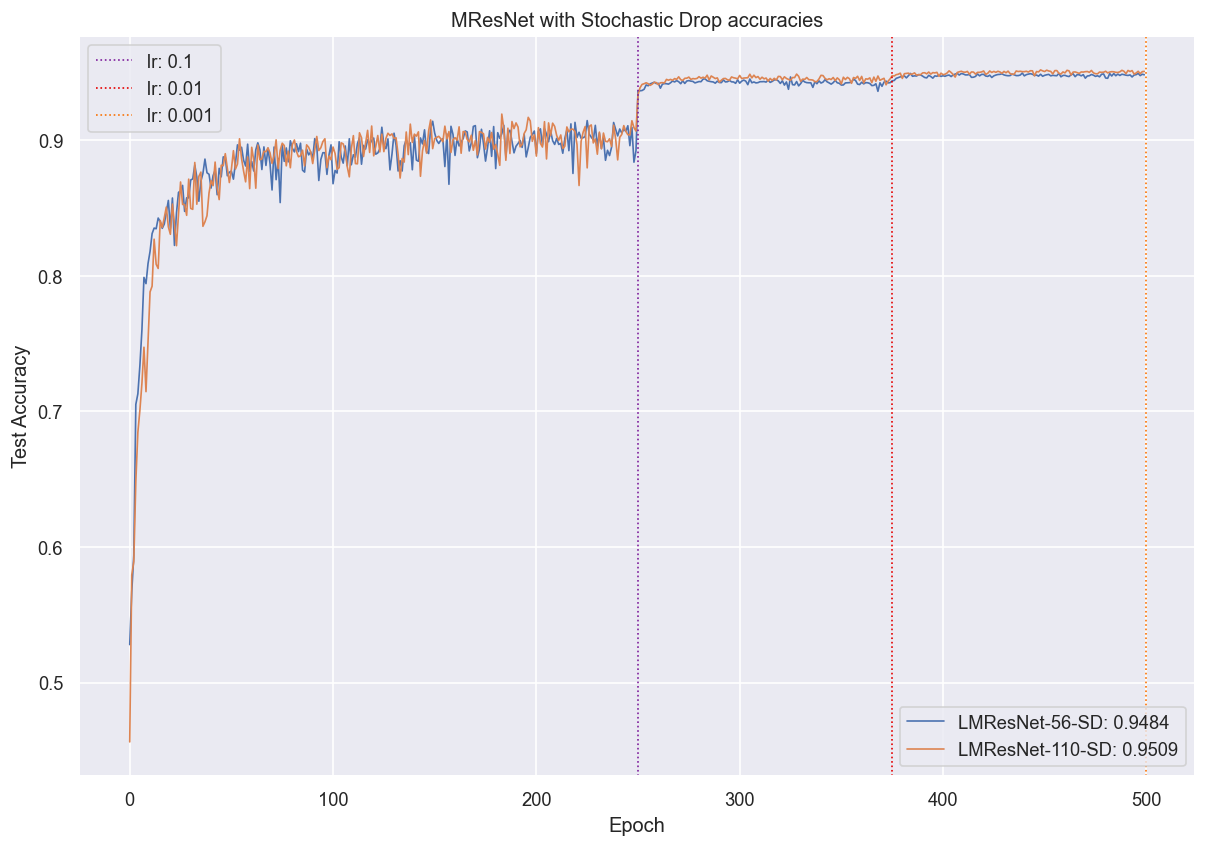
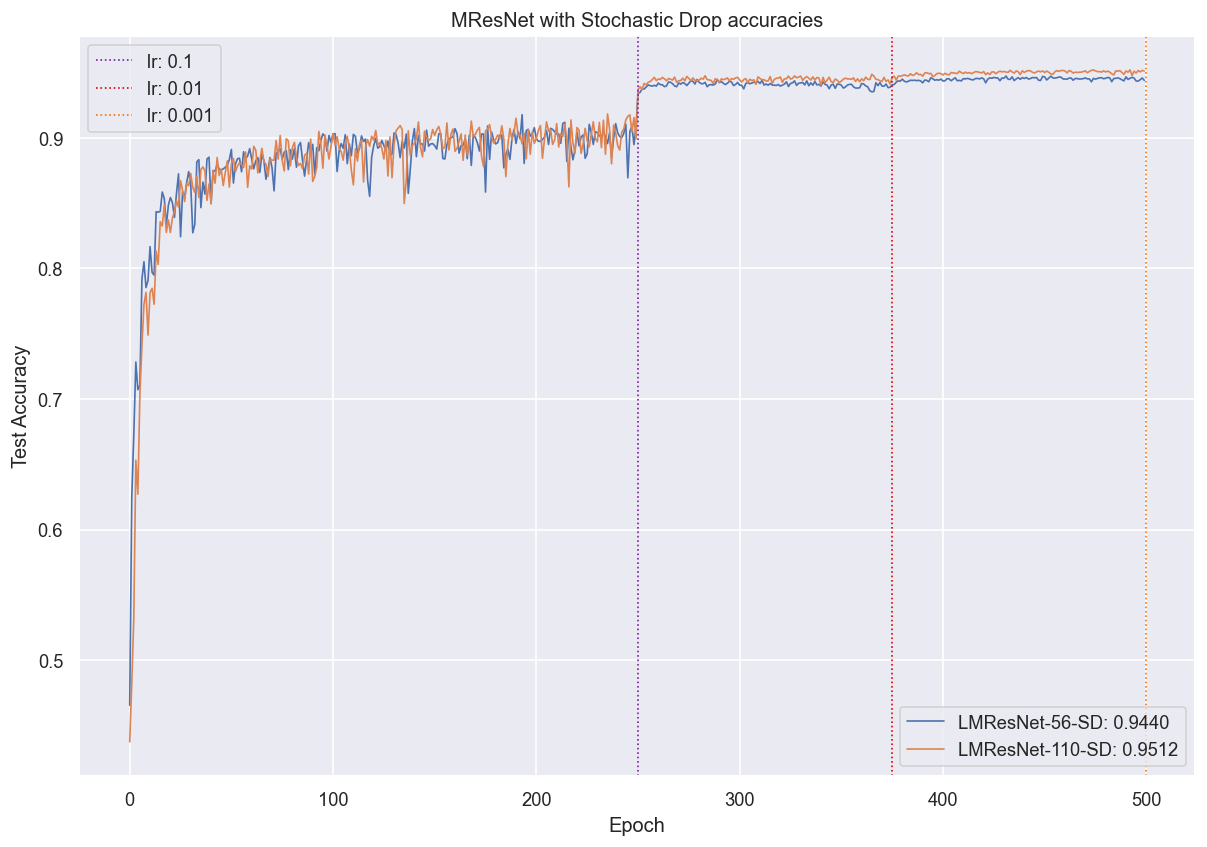
update informe

diff --git a/informe/informe.tex b/informe/informe.tex
@@ -50,14 +50,14 @@ height=21cm,top=1.7cm,headsep=1cm, headheight=1.6cm, footskip=1.2cm, bottom=2.4c
 \newpage
 
 \section{Introducción}
-En el presente trabajo se apunta a explicar el paper \textit{Beyond Finite Layer Neural Networks: Bridging Deep Architectures and Numerical Differential Equations}\cite{lu18d} de \textit{Lu et. al}.  Se introduce la motivación de los autores, una breve reseña de la literatura para explicar el estado del arte en el momento de publicación, se explican los puntos principales del paper y mostramos los resultados obtenidos al intentar replicar los resultados obtenidos en el paper.
+En el presente trabajo se apunta a explicar el paper \textit{Beyond Finite Layer Neural Networks: Bridging Deep Architectures and Numerical Differential Equations}\cite{lu18d} de \textit{Lu et. al}.  Se introduce la motivación de los autores, una breve reseña de la literatura para explicar el estado del arte en el momento de publicación, se explican los puntos principales del paper y se muestran los resultados obtenidos al intentar replicar los resultados obtenidos en el paper.
 
 \subsection{Entrenamiento de redes neuronales muy profundas}
 Las redes neuronales convolucionales empezaron a dominar el campo de vision por computadora luego de la introducción de AlexNet \cite{DBLP:journals/corr/Krizhevsky14} en 2012. Una gran ventaja de esta familia de modelos es que aprenden mapas de \textit{features} junto con un clasificador en un proceso punta a punta. De este modo, no es necesario que se definan a priori las \textit{features} relevantes de la imagen o del dominio bajo estudio.
 
-Desde entonces, se ha acelerado el estudio de estas familias de modelos, con aplicaciones varias en imágenes, lenguaje natural, sonido, procesamiento de señales, sistemas de recomendaciones, entre otras. Distintos papers elaboran sobre la importancia de la profundidad de dichas redes para lograr mejores resultados. Es decir, la performance, bajo alguna medida de performance relevante al problema, aumenta al agregar capas de parámetros libres o bloques con más neuronas. Sin embargo, el entrenamiento de modelos cada vez más grandes ha expuesto varios problemas relacionados a la convergencia del entrenamiento.
+Desde entonces, se ha acelerado el estudio de estas familias de modelos, con aplicaciones varias en imágenes, lenguaje natural, sonido, procesamiento de señales, sistemas de recomendaciones, entre otras áreas. Distintos papers elaboran sobre la importancia de la profundidad de dichas redes para lograr mejores resultados. Es decir, la performance, bajo alguna medida de performance relevante al problema, aumenta al agregar capas de parámetros libres o bloques con más neuronas. Sin embargo, el entrenamiento de modelos cada vez más grandes ha expuesto varios problemas relacionados a la convergencia del entrenamiento.
 
-Dos problemas comunes a la hora de entrenar redes neuronales muy profundas es la explosión de gradientes y el desvanecimiento de gradientes. El primero se refiere a que los valores de los gradientes a medida que se propagan por la red toman valores exponencialmente más grandes, hasta tomar el valor \texttt{NaN}. De este valor, no se pueden recuperar, dado que las operaciones de matmul no se encuentran definidas. El segundo se refiere al caso contrario, donde los gradientes se vuelven progresivamente más pequeños y tienden a cero, frenando por completo el entrenamiento. En ambos casos, la convergencia de la red se ve afectada. Ambos problemas se hacen más aparentes en redes neuronales muy profundas. Estos problemas han sido, a grandes rasgos, resueltos mediante el uso de distintos métodos de regularización entre capas así como mediante inicialización normalizada de los parámetros de la red.
+Dos problemas comunes a la hora de entrenar redes neuronales muy profundas son la explosión de gradientes y el desvanecimiento de gradientes. El primero se refiere a que los valores de los gradientes a medida que se propagan por la red toman valores exponencialmente más grandes, hasta tomar el valor \texttt{NaN}. De este valor, no se pueden recuperar, dado que las operaciones de matmul no se encuentran definidas. El segundo se refiere al caso contrario, donde los gradientes se vuelven progresivamente más pequeños y tienden a cero, frenando por completo el entrenamiento. En ambos casos, la convergencia de la red se ve afectada. Ambos problemas se hacen más aparentes en redes neuronales muy profundas. Estos problemas han sido, a grandes rasgos, resueltos mediante el uso de distintos métodos de regularización entre capas así como mediante inicialización normalizada de los parámetros de la red.
 
 Sin embargo, aún convergiendo, una consecuencia de aumentar la profundidad de las redes, es que se evidencia una degradación en el error de aprendizaje: la precisión de la red se satura y luego empeora al intentar agregar más capas. Sería natural pensar que se trata de un caso de sobreajuste u \textit{overfitting}, pero no es el caso.
 
@@ -72,7 +72,7 @@ Dentro de la literatura que trata de resolver este problema, \cite{DBLP:journals
 \label{ex_cnn}
 \end{figure}
 
-La segunda CNN en \ref{ex_cnn} posee una capa mas de conv-maxpooling que la primera. Asumamos que las demás capas están copiadas de la primer CNN de la figura, con sus mismos pesos. La capa extra podría aprender un mapeo de identidad y por tanto tener \textit{al menos} la misma precisión que la primer CNN de la figura. Esta solución por construcción de una red efectivamente más profunda indicaría que una red más profunda debería tener un error de entrenamiento más chico que una red más chica, pero esto se contradice con distintos resultados experimentales.
+La segunda CNN en \ref{ex_cnn} posee una capa más de conv-maxpooling que la primera. Asumamos que las demás capas están copiadas de la primer CNN de la figura, con sus mismos pesos. La capa extra podría aprender un mapeo de identidad y por tanto tener \textit{al menos} la misma precisión que la primer CNN de la figura. Esta solución por construcción de una red efectivamente más profunda indicaría que una red más profunda debería tener un error de entrenamiento más chico que una red más chica, pero esto se contradice con distintos resultados experimentales.
 
 En lugar de esperar que algún conjunto de capas aprendan un mapeo deseado, se les hace aprender un mapeo residual: deseando aprender el mapeo $\mathscr{H}(x)$, dejan que ese conjunto no lineal de capas aprenda $\mathscr{F}(x) = \mathscr{H}(x) - x$, de modo de obtener la función original como $\mathscr{F}(x) + x$. Los autores conjeturan que es más fácil optimizar el mapeo residual que el mapeo original. Volviendo a nuestro argumento de construcción, si el mapeo identidad fuera óptimo, sería más facil llevar el residual a cero que aprender $\mathscr{H}(x)$ como un mapeo de identidad.
 
@@ -172,9 +172,9 @@ Observemos, brevemente, que cada bloque residual de ResNet puede ser descrito po
 	y_{l+1} &= g(y_l)
 \end{align}
 
-Donde $z_l$ es la entrada del l-ésima capa, $z_{l+1}$ es la salida de la l-ésima capa, $y_l$ es una variable auxiliar de la l-ésima capa, $h, g$ son mapeos que pueden ser no-lineales. El entrenamiento se determina experimentalemente \cite{he2016identity} que es más facil si sendos $g$ y $h$ son el mapa identidad.
+Donde $z_l$ es la entrada del l-ésima capa, $z_{l+1}$ es la salida de la l-ésima capa, $y_l$ es una variable auxiliar de la l-ésima capa, $h, g$ son mapeos que pueden ser no-lineales. El entrenamiento se determina experimentalemente \cite{he2016identity} que es más fácil si tanto $g$ como $h$ son el mapa identidad.
 
-Consideremos $G$ como la inversa de $g$, entonces el sistema dinamico anterior puede ser descrito como
+Consideremos $G$ como la inversa de $g$, entonces el sistema dinámico anterior puede ser descrito como
 
 \begin{align}\label{ODE23}
 	z_{l+1} = G(h(z_l) + \mathscr{F}(z_l, W_l))
@@ -201,7 +201,7 @@ Cuya discretización más sencilla toma la forma
 Donde $\Delta t_l$ es el tamaño del l-ésimo paso. Notemos que esto es el primer paso del método de Euler.
 
 \subsection{PolyNet}
-En \cite{szegedy2014going}, se propone una arquitectura llamada "Inception" cuyos bloques se muestran en \ref{inception_block}.
+En \cite{szegedy2014going}, se propone una arquitectura llamada ``Inception'' cuyos bloques se muestran en~\ref{inception_block}.
 
 \begin{figure}[H]
 \centering
@@ -219,7 +219,7 @@ Zhang et al proponen en \cite{zhang2017polynet} utilizar bloques de Inception co
 \label{polynet_block}
 \end{figure}
 
-Es necesario aclarar que todos los bloques etiquetados "Inception F" comparten sus parámetros. Configuraciones donde distintos bloques no comparten parámetros son también estudiadas. La motivación principal es estudiar composiciones polinomiales de operadores para explorar la diversidad estructural que permite combinar aditivamente distintos bloques.
+Es necesario aclarar que todos los bloques etiquetados ``Inception F'' comparten sus parámetros. Configuraciones donde distintos bloques no comparten parámetros son también estudiadas. La motivación principal es estudiar composiciones polinomiales de operadores para explorar la diversidad estructural que permite combinar aditivamente distintos bloques.
 
 Notar que esto resulta en un término de segundo orden respecto de ResNet.
 
@@ -234,13 +234,13 @@ Cuyo lado izquierdo puede reescribirse como
 
 De modo tal que su computo sea mas eficiente.
 
-Esta formulación puede verse como un paso del método implicito de Euler
+Esta formulación puede verse como un paso del método implícito de Euler
 
 \begin{align}
 	u_{n+1} = (I -\Delta tf)^{-1}u_n
 \end{align}
 
-Para la ecuación diferencial $u_t = f(u)$. El método implicito permite pasos mas grandes, de modo que son necesarios menos bloques encadenados para lograr clasificación de estado del arte.
+Para la ecuación diferencial $u_t = f(u)$. El método implícito permite pasos mas grandes, de modo que son necesarios menos bloques encadenados para lograr clasificación de estado del arte.
 
 \subsection{FractalNet}
 FractalNet \cite{larsson2017fractalnet} muestra que el aprendizaje explicito de residuales no es un imperativo para entrenar redes muy profundas.
@@ -260,7 +260,7 @@ Los fractales sucesivos se definen como
 	f_{C+1}(z) = \left[ (f_C \circ f_C)(z) \right] \oplus \left[ \text{conv}(z) \right]
 \end{align}
 
-Donde $\circ$ denota composicion de funciones y $\oplus$ un operador de unión. Este operador de unión puede ser, por ejemplo, concatenación o suma elemento a elemento. Los autores utilizan el promedio elemento a elemento.
+Donde $\circ$ denota composición de funciones y $\oplus$ un operador de unión. Este operador de unión puede ser, por ejemplo, concatenación o suma elemento a elemento. Los autores utilizan el promedio elemento a elemento.
 
 Entonces, \ref{fractal_net_eq} puede ser reescrito como:
 
@@ -279,7 +279,7 @@ Lo cual puede ser considerado como un caso de un esquema de Runge-Kutta de segun
 \subsection{RevNet}
 Recordemos que un sistema dinamico es reversible si su función de transición de estados es biyectiva. Es decir, para cada estado existe un unico estado anterior desde el cual podría haberse llegado.
 
-En \cite{gomez2017reversible} se propone RevNet, una arquitectura compuesta de una serie de bloques reversibles. Los parámetros de cada capa se particionan en dos grupos $x_1, x_2$. Cada bloque reversible toma dos entradas $(x_1, x_2)$ y produce dos salidas $(y_1, y_2)$ acorde a las reglas en \ref{eq_revnet} y funciones residuales $\mathscr{F}$ y $\mathscr{G}$ analogas a ResNet.
+En~\cite{gomez2017reversible} se propone RevNet, una arquitectura compuesta de una serie de bloques reversibles. Los parámetros de cada capa se particionan en dos grupos $x_1, x_2$. Cada bloque reversible toma dos entradas $(x_1, x_2)$ y produce dos salidas $(y_1, y_2)$ acorde a las reglas en \ref{eq_revnet} y funciones residuales $\mathscr{F}$ y $\mathscr{G}$ análogas a ResNet.
 
 \begin{align}\label{eq_revnet}
 	y_1 &= x_1 + \mathscr{F}(x_2) \\
@@ -295,7 +295,7 @@ Por tanto, las activaciones de una capa pueden ser reconstruidas desde las activ
 
 De este modo, se ejecuta backpropagation sin guardar las activaciones en memoria.\footnote{La VRAM en GPUs suele ser un limitante en el entrenamiento. Si la arquitectura tiene muchos parámetros, es común utilizar un batch size más chico, lo cual es subóptimo para SGD con mini batches.} De este modo, su costo en memoria es independiente de su profundidad, a excepción de algunas pocas capas no reversibles.
 
-Reformulemos \ref{eq_revnet} como el siguiente sistema dinamico discreto:
+Reformulemos \ref{eq_revnet} como el siguiente sistema dinámico discreto:
 
 \begin{align}
 	X_{n+1} &= X_n + \mathscr{F}(Y_n) \\
@@ -333,7 +333,7 @@ Un método multi pasos de orden $m > 1$ es aquel cuya ecuación en diferencias p
 
 Con $i=m-1, m, \cdots, N-1$ y donde $a_0, a_1, \cdots, a_{m-1}$ y $b_0, b_1, \cdots, b_m$ son constantes y los valores iniciales $y_0 = \alpha, y_1 = \alpha_1, y_2 = \alpha_2, \cdots, y_{m-1} = \alpha_{m-1}$ son especificados.
 
-Si $b_m = 0$, el método es \textbf{explícito o abierto} ya que el valor de $w_{i+1}$ se da explícitamente en términos de los valores previamente calculados. Cuando $b_m \neq 0$, el método es \textbf{implícito o cerrado}, ya que el valor de $w_{i+1}$ se encuentra en ambos miembros de la ecuación y se especifica sólo implicitamente.
+Si $b_m = 0$, el método es \textbf{explícito o abierto} ya que el valor de $w_{i+1}$ se da explícitamente en términos de los valores previamente calculados. Cuando $b_m \neq 0$, el método es \textbf{implícito o cerrado}, ya que el valor de $w_{i+1}$ se encuentra en ambos miembros de la ecuación y se especifica sólo implícitamente.
 
 \subsubsection{Formulación de LM-ResNet}
 La arquitectura LM puede ser formulada como
@@ -342,7 +342,7 @@ La arquitectura LM puede ser formulada como
 	u_{n+1} = (1-k_n) u_n + k_n u_{n-1} + f_n(u_n)
 \end{align}
 
-Donde $k_n \in \mathbb{R}^n$ es un paramétro entrenable de cada capa que actúa como factor de escalado del residuo de la capa actual y la anterior. La figura \ref{lmblock} muestra el bloque de LM-ResNet \textit{acorde al código original}. Notar que \ref{lmblockorig}, el bloque según el paper, presenta diferencias. En primer instancia, el código original multiplica el residuo de la capa previa por $1-k_s$, pero acorde a la ecuación \ref{LM_arch}, y el diagrama \ref{lmblockorig}, se multiplica por $k_s$. El diagrama original es poco claro también, pareciendo indicar que se multiplica $u_n$ tanto por $k_s$ como por $1-k_s$.
+Donde $k_n \in \mathbb{R}^n$ es un parámetro entrenable de cada capa que actúa como factor de escalado del residuo de la capa actual y la anterior. La figura~\ref{lmblock} muestra el bloque de LM-ResNet \textit{acorde al código original}. Notar que~\ref{lmblockorig}, el bloque según el paper, presenta diferencias. En primer instancia, el código original multiplica el residuo de la capa previa por $1-k_s$, pero acorde a la ecuación~\ref{LM_arch}, y el diagrama \ref{lmblockorig}, se multiplica por $k_s$. El diagrama original es poco claro también, pareciendo indicar que se multiplica $u_n$ tanto por $k_s$ como por $1-k_s$.
 
 \begin{figure}[H]
 \centering
@@ -402,6 +402,7 @@ Todos los experimentos fueron llevados a cabo con CUDA 12.1 en una GPU Nvidia 20
 
 En \ref{tabla1} se resumen los principales resultados de los experimentos realizados. Se indica la precisión obtenida (y su error como contraparte) junto con aquella reportada en el paper. Para que los números reportados sean más correctos, se podría haber tomado el promedio y desviación estándar de varias ejecuciones, pero por motivos de tiempo disponible, no fue posible. Se indica la diferencia entre los errores obtenidos y los reportados en el paper.
 
+Vale aclarar que se usan ``MResNet'' y ``LMResNet'' intercambiablemente, el primero con base en el nombre dado en el código. Por otro lado, vemos la nomenclatura \texttt{LMResNet-X}, donde X indica la cantidad de capas convolucionales que tiene esa versión de la red.
 
 % Please add the following required packages to your document preamble:
 % \usepackage[table,xcdraw]{xcolor}
@@ -412,12 +413,12 @@ En \ref{tabla1} se resumen los principales resultados de los experimentos realiz
 \cline{2-8}
  & \multicolumn{2}{c|}{\textbf{Replicación}} & \multicolumn{2}{c|}{\textbf{Paper}} &  &  &  \\ \cline{2-8}
  & \multicolumn{1}{c}{\textbf{Acc.}} & \multicolumn{1}{c|}{\textbf{Error (\%)}} & \multicolumn{1}{c}{\textbf{Acc.}} & \multicolumn{1}{c|}{\textbf{Error (\%)}} & \multicolumn{1}{c|}{\textbf{\begin{tabular}[c]{@{}c@{}}Diferencia\\ de error\end{tabular}}} & \multicolumn{1}{l|}{\textbf{\begin{tabular}[c]{@{}l@{}}Parametros\\ entrenables\end{tabular}}} & \textbf{\begin{tabular}[c]{@{}l@{}}Mult-Add\\ totales (G)\end{tabular}} \\ \hline
-\multicolumn{1}{|l|}{\textbf{MResNet-20}} & 0.9200 & 8.00 & 0.9167 & 8.33 & \multicolumn{1}{l|}{\cellcolor[HTML]{FFFFC7}+0.33} & \multicolumn{1}{l|}{273475} & 5.22 \\
-\multicolumn{1}{|l|}{\textbf{MResNet-32}} & 0.9204 & 7.96 & 0.9282 & 7.18 & \multicolumn{1}{l|}{\cellcolor[HTML]{FF6961}-0.78} & \multicolumn{1}{l|}{467913} & 8.85 \\
-\multicolumn{1}{|l|}{\textbf{MResNet-44}} & 0.9279 & 7.21 & 0.9334 & 6.66 & \multicolumn{1}{l|}{\cellcolor[HTML]{FE996B}-0.55} & \multicolumn{1}{l|}{662351} & 12.47 \\
-\multicolumn{1}{|l|}{\textbf{MResNet-56}} & 0.9315 & 6.85 & 0.9369 & 6.31 & \multicolumn{1}{l|}{\cellcolor[HTML]{FE996B}-0.54} & \multicolumn{1}{l|}{856789} & 16.10 \\
-\multicolumn{1}{|l|}{\textbf{MResNet-110}} & 0.9357 & 6.43 & 0.9384 & 6.16 & \multicolumn{1}{l|}{\cellcolor[HTML]{FFFFC7}-0.27} & \multicolumn{1}{l|}{1731760} & 32.40 \\
-\multicolumn{1}{|l|}{\textbf{MResNet-164}} & 0.9439 & 5.61 & 0.9473 & 5.27 & \multicolumn{1}{l|}{\cellcolor[HTML]{FFFFC7}-0.34} & \multicolumn{1}{l|}{1703760} & 31.70 \\ \hline
+\multicolumn{1}{|l|}{\textbf{LMResNet-20}} & 0.9200 & 8.00 & 0.9167 & 8.33 & \multicolumn{1}{l|}{\cellcolor[HTML]{77DD77}+0.33} & \multicolumn{1}{l|}{273475} & 5.22 \\
+\multicolumn{1}{|l|}{\textbf{LMResNet-32}} & 0.9204 & 7.96 & 0.9282 & 7.18 & \multicolumn{1}{l|}{\cellcolor[HTML]{FF6961}-0.78} & \multicolumn{1}{l|}{467913} & 8.85 \\
+\multicolumn{1}{|l|}{\textbf{LMResNet-44}} & 0.9279 & 7.21 & 0.9334 & 6.66 & \multicolumn{1}{l|}{\cellcolor[HTML]{FE996B}-0.55} & \multicolumn{1}{l|}{662351} & 12.47 \\
+\multicolumn{1}{|l|}{\textbf{LMResNet-56}} & 0.9315 & 6.85 & 0.9369 & 6.31 & \multicolumn{1}{l|}{\cellcolor[HTML]{FE996B}-0.54} & \multicolumn{1}{l|}{856789} & 16.10 \\
+\multicolumn{1}{|l|}{\textbf{LMResNet-110}} & 0.9357 & 6.43 & 0.9384 & 6.16 & \multicolumn{1}{l|}{\cellcolor[HTML]{FFFFC7}-0.27} & \multicolumn{1}{l|}{1731760} & 32.40 \\
+\multicolumn{1}{|l|}{\textbf{LMResNet-164}} & 0.9439 & 5.61 & 0.9473 & 5.27 & \multicolumn{1}{l|}{\cellcolor[HTML]{FFFFC7}-0.34} & \multicolumn{1}{l|}{1703760} & 31.70 \\ \hline
 \end{tabular}
 \end{adjustbox}
 \caption{Tabla de resumen de resultados obtenidos.}
@@ -451,7 +452,9 @@ En \ref{test_set_acc} se muestra la curva de precisión sobre el set de test par
 \label{train_loss_log}
 \end{figure}
 
-En \ref{momentum} y \ref{momentum_large} se ven los valores aprendidos por los parámetros $k_n$, los momentos de cada una de las capas residuales. Este punto es donde mayor discrepancias se encuentran respecto del paper original. En primer instancia, el paper proclama que estos valores se inicializan $\sim \mathscr{U}(-0.1, 0)$, sin embargo en el código original~\footnote{\url{https://github.com/2prime/LM-ResNet/blob/ff49654a50abd76f9fd40342a6d7b82e3ff11c31/MResNet.py\#L139}} los valores se inicializan en $\mathscr{U}(1.0, 1.1)$. Tal como se hizo antes, se toma lo explicado en el paper como verdad, y se modifica el código acorde. Notemos que esto, sin embargo, hace que ambas discrepancias tomen sentido: $1 - \mathscr{U}(1.0, 1.1) \sim \mathscr{U}(-0.1, 0.0)$. Sin embargo, por claridad, se prefiere dejar el código corregido para cumplir con lo descrito explícitamente. En segunda instancia, los momentos reportados en el paper decaen conforme se avanza por la red y se distribuyen en $\left[-2.0, 1.0\right]$. En los experimentos de replicación, vemos que los valores se mantienen en $\left[-0.1, 0.0\right]$. Aún luego de varias revisiones, no se evidencia un error en el código por el cual estos valores no se modifiquen con el tiempo.
+En \ref{momentum} y \ref{momentum_large} se ven los valores aprendidos por los parámetros $k_n$, los momentos de cada una de las capas residuales. Este punto es donde mayor discrepancias se encuentran respecto del paper original. En primer instancia, el paper proclama que estos valores se inicializan $\sim \mathscr{U}(-0.1, 0)$, sin embargo en el código original~\footnote{\url{https://github.com/2prime/LM-ResNet/blob/ff49654a50abd76f9fd40342a6d7b82e3ff11c31/MResNet.py\#L139}} los valores se inicializan en $\mathscr{U}(1.0, 1.1)$. Tal como se hizo antes, se toma lo explicado en el paper como verdad, y se modifica el código acorde. Notemos que esto, sin embargo, hace que ambas discrepancias tomen sentido: $1 - \mathscr{U}(1.0, 1.1) \sim \mathscr{U}(-0.1, 0.0)$. Sin embargo, por claridad, se prefiere dejar el código corregido para cumplir con lo descrito explícitamente. Luego, se observa algo que los autores notan: que los momentos aprendidos decaen rápidamente hacia el final de la red. La figura obtenida no tiene una caída tan suave como la reportada en el paper, sin embargo se cumple tanto para las redes más chicas como las redes más grandes. Los momentos reportados en el paper se distribuyen en $\left[-2.0, 1.0\right]$. En los experimentos de replicación, vemos que los valores se mantienen en $\left[-2.5, 1.0\right]$, lo cual parece bastante cercano.
+
+Pensemos en qué implica un valor negativo para $k_n$. Revisando \ref{LM_arch}, vemos que se le está dando un valor positivo alto al residual actual y se le está dando un valor negativo al residual anterior. Podríamos justificarlo pensando que la información provista por el último punto da mucha más información que un punto anterior.
 
 \begin{figure}[H]
 \centering
@@ -471,13 +474,13 @@ En \ref{momentum} y \ref{momentum_large} se ven los valores aprendidos por los p
 En \cite{huang2016deep}, se propone, aleatoriamente eliminar un subset de capas y reemplazarlas por la función identidad. Se inicia con una red extremadamente profunda (incluso más de 1200 capas) para luego ir eliminando algunas durante cada epoch de entrenamiento. Por otro lado, \cite{gastaldi2017shakeshake} propone utilizar regularización shake-shake para mejorar los resultados de una red con múltiples ramas (como LM-Resnet), reemplazando la operación de suma como unión de ramas por una operación afín estocástica.
 
 \subsection{Sistema dinámico de una regularización Shake-Shake}
-Tal como se adelantó, en \cite{gastaldi2017shakeshake} se propone la siguiente combinación afin estocástica:
+Tal como se adelantó, en \cite{gastaldi2017shakeshake} se propone la siguiente combinación afín estocástica:
 
 \begin{align}
 	X_{n+1} = X_n + \eta f_1(X_n) + (1-\eta) f_2 (X_n)
 \end{align}
 
-Como operador de unión de múltiples componentes de un bloque residual. $\eta \sim \mathscr{U}(0,1)$. Introduciendo un paso temporal $\Delta t$ encontramos su sistema dinamico estocástico asociado:
+Como operador de unión de múltiples componentes de un bloque residual. $\eta \sim \mathscr{U}(0,1)$. Introduciendo un paso temporal $\Delta t$ encontramos su sistema dinámico estocástico asociado:
 
 \begin{align}\label{shakeshake_step}
 	X_{n+1} = X_n + \left(\dfrac{\Delta t}{2} + \sqrt{\Delta t}(\eta - \dfrac{1}{2})\right) f_1(X_n) + \left( \dfrac{\Delta t}{2} + \sqrt{\Delta t} (\dfrac{1}{2} - \eta) \right) f_2(X_n)
@@ -518,7 +521,7 @@ Donde $\mathbb{P}(\eta_n = 1) = p_n, \mathbb{P}(\eta_n = 0) = 1 - p_n$. Lo cual 
 
 \subsection{Resultados experimentales}
 \subsubsection{Hiperparámetros}
-El dataset se trata del mismo modo que para experimentos anteriores. En este caso, la probabilidad de eliminar un bloque residual en cada capa es un funcion lineal de la capa. Siendo $l$ la capa bajo consideración, la probabilidad de eliminar un bloque residual es $\dfrac{l}{L}(1 - p_L)$, donde $L$ refiere a la profundidad de la red y $p_L$ es la probabilidad asociada a la capa anterior a $l$.
+El dataset se trata del mismo modo que para experimentos anteriores. En este caso, la probabilidad de eliminar un bloque residual en cada capa es un función lineal de la capa. Siendo $l$ la capa bajo consideración, la probabilidad de eliminar un bloque residual es $\dfrac{l}{L}(1 - p_L)$, donde $L$ refiere a la profundidad de la red y $p_L$ es la probabilidad asociada a la capa anterior a $l$.
 
 Para LM-ResNet56 se selecciona $p_L = 0.8$ y para LM-ResNet110 se selecciona $p_L = 0.5$. Se entrena utilizando descenso estocástico por gradiente con decaimiento de peso de 0.0001 y momento de 0.9. El factor de aprendizaje arranca en 0.1, pasa a ser 0.01 luego del epoch 250 y 0.001 luego del epoch 375. El entrenamiento termina a los 500 epochs.
 
@@ -526,7 +529,7 @@ Para LM-ResNet56 se selecciona $p_L = 0.8$ y para LM-ResNet110 se selecciona $p_
 
 En \ref{tabla2} se resumen los principales resultados de los experimentos de entrenamiento estocástico. Estos experimentos, considerando que tienen un costo computacional más alto y entrenan por 3 veces más epochs que las anteriores pruebas, tardan mas que las pruebas para los 6 modelos sin entrenamiento estocástico. Se utiliza regularización dropout acorde a las pruebas reportadas en el paper. Se implementa la regularización shake-shake mediante la suma de ruido uniforme a la salida de cada bloque residual. Sin embargo, al no tener un valor de referencia en el paper, no se ejecutaron las pruebas.
 
-Vemos que los valores de precisión obtenidos se corresponden con los reportados, dentro de márgenes de error aceptables para ambas configuraciones de la arquitectura LM-ResNet. Resulta destacable que LM-ResNet56 con entrenamiento estocástico tiene un error menor que LM-ResNet110 y LM-ResNet164 sin entrenamiento estocástico, y con la mitad de parámetros. LM-ResNet110 con entrenamiento estocástico logra una mejora de 6.8\% error relativo respecto de LM-ResNet164 sin entrenamiento estocástico y \textbf{20\%} respecto de LM-ResNet110 sin entrenamiento estocástico.
+Vemos que los valores de precisión obtenidos se corresponden con los reportados, dentro de márgenes de error aceptables para ambas configuraciones de la arquitectura LM-ResNet. Resulta destacable que LM-ResNet56 con entrenamiento estocástico tiene un error menor que LM-ResNet110 y LM-ResNet164 sin entrenamiento estocástico, y con la mitad de parámetros. LM-ResNet110 con entrenamiento estocástico logra una mejora de 13.01\% error relativo respecto de LM-ResNet164 sin entrenamiento estocástico y \textbf{24.10\%} respecto de LM-ResNet110 sin entrenamiento estocástico.
 
 % Please add the following required packages to your document preamble:
 % \usepackage[table,xcdraw]{xcolor}
@@ -537,8 +540,8 @@ Vemos que los valores de precisión obtenidos se corresponden con los reportados
 \cline{2-8}
  & \multicolumn{2}{c|}{\textbf{Replicación}} & \multicolumn{2}{c|}{\textbf{Paper}} &  &  &  \\ \cline{2-8}
  & \multicolumn{1}{c}{\textbf{Acc.}} & \multicolumn{1}{c|}{\textbf{Error (\%)}} & \multicolumn{1}{c}{\textbf{Acc.}} & \multicolumn{1}{c|}{\textbf{Error}} & \multicolumn{1}{c|}{\textbf{\begin{tabular}[c]{@{}c@{}}Diferencia\\ de error\end{tabular}}} & \multicolumn{1}{c|}{\textbf{\begin{tabular}[c]{@{}c@{}}Parámetros\\ entrenables\end{tabular}}} & \multicolumn{1}{c|}{\textbf{\begin{tabular}[c]{@{}c@{}}Mult-Add\\ totales (G)\end{tabular}}} \\ \hline
-\multicolumn{1}{|l|}{\textbf{MResNet-56}} & 0.9484 & 5.16 & 0.9486 & 5.14 & \multicolumn{1}{l|}{\cellcolor[HTML]{FFFFC7}-0.02} & \multicolumn{1}{l|}{856789} & 16.10 \\
-\multicolumn{1}{|l|}{\textbf{MResNet-110}} & 0.9509 & 4.91 & 0.9520 & 4.80 & \multicolumn{1}{l|}{\cellcolor[HTML]{FFCE93}-0.11} & \multicolumn{1}{l|}{1731760} & 32.40 \\ \hline
+\multicolumn{1}{|l|}{\textbf{LMResNet-56}} & 0.9440 & 5.60 & 0.9486 & 5.14 & \multicolumn{1}{l|}{\cellcolor[HTML]{FE996B}-0.46} & \multicolumn{1}{l|}{856789} & 16.10 \\
+\multicolumn{1}{|l|}{\textbf{LMResNet-110}} & 0.9512 & 4.88 & 0.9520 & 4.80 & \multicolumn{1}{l|}{\cellcolor[HTML]{FFCE93}-0.08} & \multicolumn{1}{l|}{1731760} & 32.40 \\ \hline
 \end{tabular}
 \end{adjustbox}
 \caption{Tabla de resumen de resultados obtenidos para entrenamiento estocástico.}
@@ -568,7 +571,7 @@ En \ref{sd_test_set_acc} se muestra la curva de precisión sobre el set de test 
 \label{train_loss_log_sd}
 \end{figure}
 
-Tal como en experimentos anteriores, en \ref{sd_momentum} se observa que el comportamiento de los valores $k_n$ aprendidos para cada capa residual son aleatorios dentro del rango de inicialización.
+Tal como en experimentos anteriores, en \ref{sd_momentum} se observa que el comportamiento de los valores $k_n$ aprendidos para cada capa residual se acelera rápidamente hacia el final de la red.
 
 \begin{figure}[H]
 \centering
@@ -578,17 +581,15 @@ Tal como en experimentos anteriores, en \ref{sd_momentum} se observa que el comp
 \end{figure}
 
 \section{Una nota sobre el método de ecuaciones modificadas}
-La ecuación modificada de un esquema de análisis numérico que aproxima un sistema de ecuaciones por diferencias es otra ecuación diferencial que puede ser mejor aproximado por el esquema numérico. Se utilizan para describir las propiedades de dichos esquemas. La conclusión relevante del paper es que cuando $f$, la función aproximada por el esquema de Euler de primer orden de ResNet, es un flojo de gradientes, la ecuación de diferencias de LM-ResNet tiene una condición de estabilidad $-1 \leq k_n \leq 1$.
+La ecuación modificada de un esquema de análisis numérico que aproxima un sistema de ecuaciones por diferencias es otra ecuación diferencial que puede ser mejor aproximado por el esquema numérico. Se utilizan para describir las propiedades de dichos esquemas. La conclusión relevante del paper es que cuando $f$, la función aproximada por el esquema de Euler de primer orden de ResNet, es un flujo de gradientes, la ecuación de diferencias de LM-ResNet tiene una condición de estabilidad $-1 \leq k_n \leq 1$.
 
 \section{Conclusión}
 En el presente trabajo se explica el paper ``Beyond Finite Layer Neural Networks'', haciendo un repaso del estado del arte previo, su motivación y los temas más relevantes de la literatura relacionada. Se implementan los pipelines de entrenamientos necesarios para replicar los resultados, se reporta la diferencia obtenida respecto de los resultados mencionados en el paper y se hacen notar varios problemas en el paper original y el código.
 
-Una observación que destaca es que los momentos $k_n$ no parecen tener relevancia en el resultado final de la red. Si bien se replican los resultados, no parece que aprender estos valores de escala de cada paso de un método numérico de dos pasos resulte condición necesaria para el resultado final.
-
 Considero que los objetivos del trabajo han sido cumplidos, sin embargo, se abren las puertas a varias líneas de mejora sucesivas.
 
 \subsection{Trabajo futuro propuesto}
-Un camino que no see exploró es el de replicar los resultados para CIFAR100 e ImageNet. Esto se debió a los tiempos de entrenamiento necesarios, pero principalmente debido a que no parecía aportar demasiado respecto de las pruebas realizadas. Se propone también hacer una revisión sobre los valores de $k_n$ para ver si estos están siendo considerados durante la backpropagation de los gradientes.
+Un camino que no se exploró es el de replicar los resultados para CIFAR100 e ImageNet. Esto se debió a los tiempos de entrenamiento necesarios, pero principalmente debido a que no parecía aportar demasiado respecto de las pruebas realizadas. Se propone también hacer una revisión sobre los valores de $k_n$ para ver si estos están siendo considerados durante la backpropagation de los gradientes.
 
 En \href{https://paperswithcode.com/sota/image-classification-on-cifar-10}{la página de SOTA de CIFAR10 de Papers with Code} se ve que desde la publicación del paper objeto de estudio del presente informe, el estado del arte movió el mejor valor reportado de 97.02\% a 99.5\% en 2021. Desde entonces, y hasta la fecha en 2023, no se han reportado mejores resultados.
 
@@ -601,7 +602,7 @@ Hay dos hechos notables que pienso que ofrecen una oportunidad interesante de in
 \label{transformer}
 \end{figure}
 
-En primer lugar, propongo adaptar la arquitectura LM a BiT y evaluar si los resultados obtenidos mejoran respecto de la publicación original. Por otro lado, si observamos en \ref{transformer}, vemos que tanto el encoder como el decoder de la arquitectura de Transformer poseen conexiones residuales, lo cual lleva a pensar que quizás se puedan aplicar los mismos principios aquí estudiados. Sin embargo, resulta más interesante que \cite{lu2019understanding}, con primer autor al mismo autor del paper objecto de estudio del presente informe, estudia a la arquitectura de Transformers como un método de resolucion de EDOs para una ecuación se convección-difusión en un sistema dinámico de múltiples partículas. Propongo evaluar agregar este paper a la lista de papers posibles sobre los cuales realizar una monografía dentro del marco de la materia.
+En primer lugar, propongo adaptar la arquitectura LM a BiT y evaluar si los resultados obtenidos mejoran respecto de la publicación original. Por otro lado, si observamos en \ref{transformer}, vemos que tanto el encoder como el decoder de la arquitectura de Transformer poseen conexiones residuales, lo cual lleva a pensar que quizás se puedan aplicar los mismos principios aquí estudiados. Sin embargo, resulta más interesante que \cite{lu2019understanding}, con primer autor al mismo autor del paper objecto de estudio del presente informe, estudia a la arquitectura de Transformers como un método de resolución de EDOs para una ecuación se convección-difusión en un sistema dinámico de múltiples partículas. Propongo evaluar agregar este paper a la lista de papers posibles sobre los cuales realizar una monografía dentro del marco de la materia.
 
 \newpage
 
